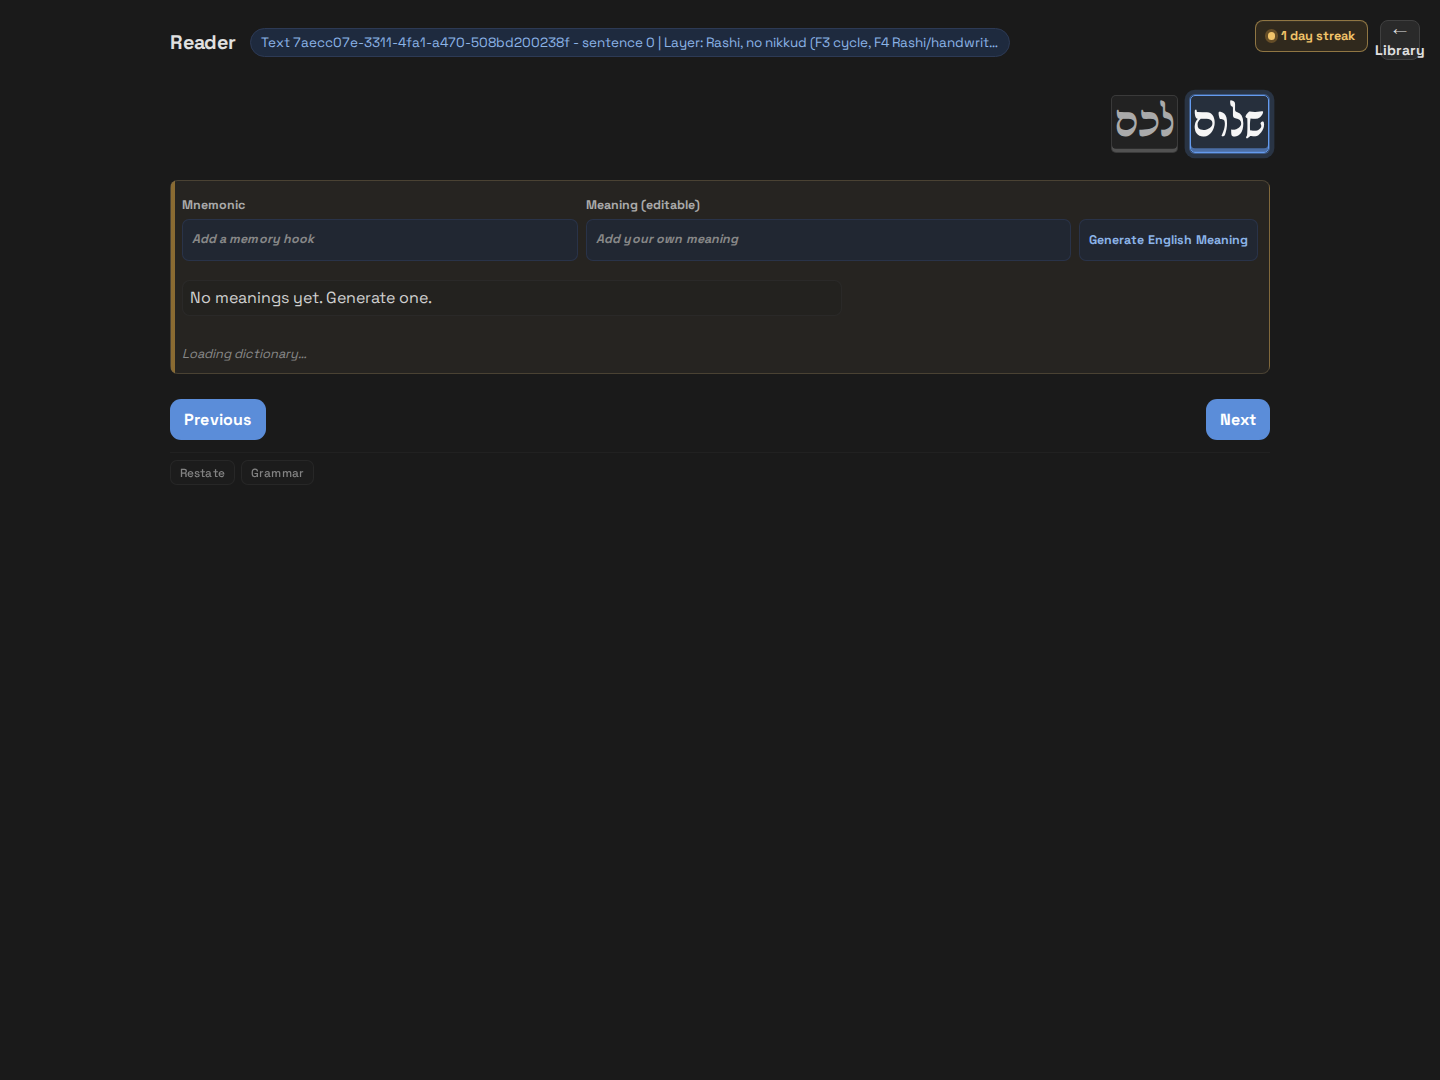
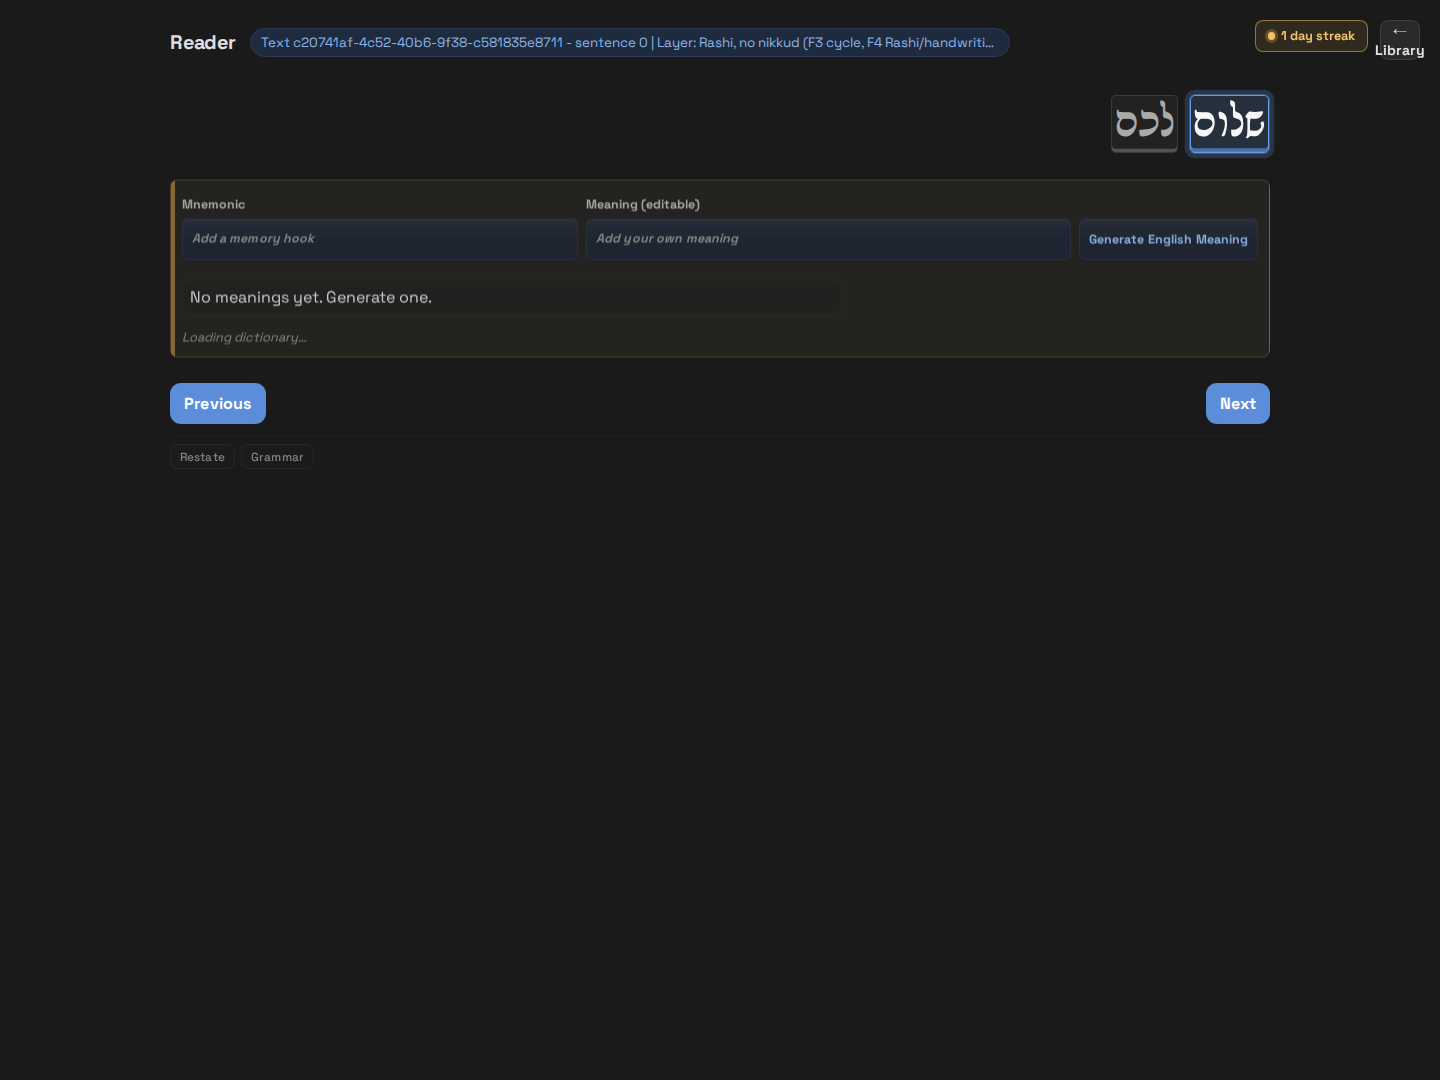
style: Polish inline word-details edit and save feedback
Beads: hreader-ei9
Automated hourly Codex visual redesign worker.
Verification: .venv/bin/python -m pytest -q plus Playwright screenshot capture passed.

diff --git a/app/static/styles.css b/app/static/styles.css
@@ -707,7 +707,6 @@ button.streak-chip:hover {
     background-color var(--motion-duration-base) var(--motion-ease-standard),
     border-color var(--motion-duration-base) var(--motion-ease-standard),
     box-shadow var(--motion-duration-base) var(--motion-ease-standard),
-    color var(--motion-duration-base) var(--motion-ease-standard),
     opacity var(--motion-duration-base) var(--motion-ease-standard),
     transform 120ms var(--motion-ease-standard);
 }
@@ -1325,7 +1324,9 @@ textarea:focus-visible {
   gap: 0.4rem;
   transition:
     background-color var(--motion-duration-base) var(--motion-ease-standard),
-    border-color var(--motion-duration-base) var(--motion-ease-standard);
+    border-color var(--motion-duration-base) var(--motion-ease-standard),
+    box-shadow var(--motion-duration-base) var(--motion-ease-standard);
+  animation: word-details-open var(--motion-duration-moderate) var(--motion-ease-emphasized);
 }
 
 .word-details-panel.status-unknown {
@@ -1346,10 +1347,52 @@ textarea:focus-visible {
   display: none;
 }
 
+.word-details-panel:has(.inline-edit-input:not(.is-hidden)) {
+  border-color: color-mix(in srgb, var(--focus-ring) 58%, var(--border) 42%);
+  box-shadow:
+    0 0 0 1px color-mix(in srgb, var(--focus-ring) 22%, transparent),
+    inset 0 1px 0 rgba(255, 255, 255, 0.03);
+}
+
+.word-details-panel:has(#mnemonic-state.saving),
+.word-details-panel:has(#meanings-state.saving),
+.word-details-panel:has(#meanings-state.generating),
+.word-details-panel:has(#mnemonic-state.loading),
+.word-details-panel:has(#meanings-state.loading) {
+  box-shadow:
+    0 0 0 1px color-mix(in srgb, var(--accent) 24%, transparent),
+    inset 0 1px 0 rgba(255, 255, 255, 0.035);
+}
+
+.word-details-panel:has(#mnemonic-state.saved),
+.word-details-panel:has(#meanings-state.saved) {
+  border-color: color-mix(in srgb, var(--semantic-success) 46%, var(--border) 54%);
+  box-shadow:
+    0 0 0 1px color-mix(in srgb, var(--semantic-success) 22%, transparent),
+    inset 0 1px 0 rgba(255, 255, 255, 0.035);
+}
+
+.word-details-panel:has(#word-details-state.error),
+.word-details-panel:has(#mnemonic-state.error),
+.word-details-panel:has(#meanings-state.error) {
+  border-color: color-mix(in srgb, var(--semantic-danger) 52%, var(--border) 48%);
+  box-shadow:
+    0 0 0 1px color-mix(in srgb, var(--semantic-danger) 24%, transparent),
+    inset 0 1px 0 rgba(255, 255, 255, 0.035);
+}
+
 .word-details-panel #meanings-state,
 .word-details-panel .meaning-preview,
 .word-details-panel #meanings-list {
   width: 100%;
+}
+
+.word-details-panel #word-dict-results {
+  max-height: 56px;
+  margin-top: 0;
+  overflow-y: auto;
+  padding-right: 0.28rem;
+  scrollbar-color: color-mix(in srgb, var(--border-emphasis) 72%, transparent) transparent;
 }
 
 .word-details-panel #word-details-state,
@@ -1357,6 +1400,42 @@ textarea:focus-visible {
 .word-details-panel #meanings-state {
   min-height: 0;
   margin-top: 0;
+}
+
+.word-details-panel #word-details-state:not(:empty),
+.word-details-panel #mnemonic-state:not(:empty),
+.word-details-panel #meanings-state:not(:empty) {
+  width: fit-content;
+  max-width: 100%;
+  border: 1px solid color-mix(in srgb, var(--border) 58%, transparent);
+  border-radius: 999px;
+  background: color-mix(in srgb, var(--surface) 72%, transparent);
+  color: var(--muted-strong);
+  padding: 0.16rem 0.44rem;
+  font-size: 0.72rem;
+  font-weight: 700;
+  line-height: 1.25;
+  box-shadow: inset 0 1px 0 rgba(255, 255, 255, 0.025);
+}
+
+.word-details-panel .state.saving,
+.word-details-panel .state.generating,
+.word-details-panel .state.loading {
+  border-color: color-mix(in srgb, var(--accent) 38%, var(--border) 62%);
+  background: color-mix(in srgb, var(--accent-soft) 54%, var(--surface) 46%);
+  color: var(--accent-muted);
+}
+
+.word-details-panel .state.saved {
+  border-color: color-mix(in srgb, var(--semantic-success) 42%, var(--border) 58%);
+  background: color-mix(in srgb, var(--semantic-success-soft) 70%, var(--surface) 30%);
+  color: color-mix(in srgb, var(--semantic-success) 82%, var(--ink) 18%);
+}
+
+.word-details-panel .state.error {
+  border-color: color-mix(in srgb, var(--semantic-danger) 48%, var(--border) 52%);
+  background: color-mix(in srgb, var(--semantic-danger-soft) 74%, var(--surface) 26%);
+  color: color-mix(in srgb, var(--semantic-danger) 82%, var(--ink) 18%);
 }
 
 .word-details-controls {
@@ -1385,7 +1464,9 @@ textarea:focus-visible {
   width: 100%;
   min-height: 42px;
   border: 1px solid color-mix(in srgb, var(--border) 70%, transparent);
-  background: color-mix(in srgb, var(--bg-input) 70%, var(--surface) 30%);
+  background:
+    linear-gradient(180deg, rgba(255, 255, 255, 0.026), transparent 44%),
+    color-mix(in srgb, var(--bg-input) 70%, var(--surface) 30%);
   color: color-mix(in srgb, var(--ink) 84%, var(--muted) 16%);
   border-radius: 7px;
   padding: 0.42rem 0.48rem;
@@ -1393,7 +1474,15 @@ textarea:focus-visible {
   text-align: left;
   white-space: normal;
   overflow-wrap: anywhere;
-  box-shadow: none;
+  box-shadow:
+    inset 0 1px 0 rgba(255, 255, 255, 0.024),
+    inset 0 -1px 0 rgba(0, 0, 0, 0.18);
+  transition:
+    background-color var(--motion-duration-fast) var(--motion-ease-standard),
+    border-color var(--motion-duration-fast) var(--motion-ease-standard),
+    box-shadow var(--motion-duration-fast) var(--motion-ease-standard),
+    color var(--motion-duration-fast) var(--motion-ease-standard),
+    transform var(--motion-duration-fast) var(--motion-ease-standard);
 }
 
 .inline-edit-display.is-empty {
@@ -1402,14 +1491,22 @@ textarea:focus-visible {
 }
 
 .inline-edit-display:hover,
+.inline-edit-display:focus,
 .inline-edit-display:focus-visible {
   border-color: var(--focus-ring);
   background: color-mix(in srgb, var(--accent-soft) 38%, var(--surface) 62%);
   color: var(--text-primary);
-  transform: none;
+  transform: translateY(-1px);
   filter: none;
   outline: 2px solid var(--focus-ring-soft);
   outline-offset: 2px;
+  box-shadow:
+    0 0 0 3px color-mix(in srgb, var(--focus-ring-soft) 72%, transparent),
+    inset 0 1px 0 rgba(255, 255, 255, 0.04);
+}
+
+.inline-edit-display:active {
+  transform: translateY(0);
 }
 
 .word-details-panel textarea {
@@ -1421,26 +1518,68 @@ textarea:focus-visible {
   padding: 0.42rem 0.48rem;
   border-radius: 7px;
   line-height: 1.35;
+  box-shadow:
+    inset 0 1px 0 rgba(255, 255, 255, 0.024),
+    inset 0 0 0 999px rgba(255, 255, 255, 0.006);
+}
+
+.word-details-panel textarea:focus,
+.word-details-panel textarea:focus-visible {
+  background:
+    linear-gradient(180deg, rgba(255, 255, 255, 0.032), transparent 44%),
+    color-mix(in srgb, var(--bg-input) 84%, var(--accent-soft) 16%);
+  box-shadow:
+    0 0 0 3px color-mix(in srgb, var(--focus-ring-soft) 70%, transparent),
+    inset 0 1px 0 rgba(255, 255, 255, 0.04);
+}
+
+.word-details-panel textarea[data-saving="true"] {
+  border-color: color-mix(in srgb, var(--accent) 54%, var(--border) 46%);
+  background: color-mix(in srgb, var(--accent-soft) 35%, var(--bg-input) 65%);
 }
 
 .word-details-panel button {
   justify-self: start;
   border-color: color-mix(in srgb, var(--border-accent-subtle) 66%, transparent);
-  background: color-mix(in srgb, var(--accent-soft) 52%, var(--surface) 48%);
+  background:
+    linear-gradient(180deg, rgba(255, 255, 255, 0.04), transparent 52%),
+    color-mix(in srgb, var(--accent-soft) 52%, var(--surface) 48%);
   color: var(--accent-muted);
   border-radius: 7px;
   padding: 0.3rem 0.56rem;
   font-size: 0.78rem;
-  box-shadow: none;
+  box-shadow:
+    inset 0 1px 0 rgba(255, 255, 255, 0.035),
+    0 1px 0 rgba(0, 0, 0, 0.14);
   white-space: nowrap;
+  transition:
+    background-color var(--motion-duration-fast) var(--motion-ease-standard),
+    border-color var(--motion-duration-fast) var(--motion-ease-standard),
+    box-shadow var(--motion-duration-fast) var(--motion-ease-standard),
+    color var(--motion-duration-fast) var(--motion-ease-standard),
+    transform var(--motion-duration-fast) var(--motion-ease-standard);
 }
 
 .word-details-panel button:hover {
   border-color: var(--accent);
   background: color-mix(in srgb, var(--accent-soft) 74%, var(--surface) 26%);
   color: var(--text-primary);
-  transform: none;
+  transform: translateY(-1px);
   filter: none;
+}
+
+.word-details-panel button:active {
+  transform: translateY(0);
+  box-shadow: inset 0 1px 2px rgba(0, 0, 0, 0.24);
+}
+
+.word-details-panel button:disabled {
+  cursor: wait;
+  opacity: 0.78;
+  border-color: color-mix(in srgb, var(--accent) 42%, var(--border) 58%);
+  background: color-mix(in srgb, var(--accent-soft) 70%, var(--surface) 30%);
+  color: color-mix(in srgb, var(--accent-muted) 82%, var(--muted) 18%);
+  transform: none;
 }
 
 .word-details-panel .generate-meaning-form {
@@ -1515,6 +1654,18 @@ textarea:focus-visible {
   align-self: center;
   padding: 0.24rem 0.48rem;
   min-height: 32px;
+}
+
+@keyframes word-details-open {
+  from {
+    opacity: 0.88;
+    transform: translateY(-2px);
+  }
+
+  to {
+    opacity: 1;
+    transform: translateY(0);
+  }
 }
 
 #meanings-list li.is-removing {
@@ -2559,12 +2710,17 @@ textarea:focus-visible {
 
   .modal-box,
   .sentence-word.pulse,
+  .word-details-panel,
   .srs-reviewer {
     animation: none;
   }
 
   button:hover,
   .sentence-word:active,
+  .inline-edit-display:hover,
+  .inline-edit-display:focus-visible,
+  .word-details-panel button:hover,
+  .word-details-panel button:active,
   #meanings-list li.is-removing,
   .srs-mnemonic-form button:active {
     transform: none;
@@ -2573,6 +2729,8 @@ textarea:focus-visible {
   .sentence-word,
   .nav-button,
   .range-btn,
+  .word-details-panel,
+  .inline-edit-display,
   input,
   textarea,
   select,

diff --git a/app/static/app.js b/app/static/app.js
@@ -472,10 +472,14 @@ function isCurrentRequest(key, version) {
 
 function setStateMessage(node, text, isError = false) {
   if (!node) return;
+  const normalizedText = text || "";
   node.textContent = text || "";
   node.classList.toggle("error", Boolean(isError));
-  node.classList.toggle("loading", text === "Loading...");
-  node.classList.toggle("empty", text === "Empty");
+  node.classList.toggle("loading", normalizedText === "Loading...");
+  node.classList.toggle("saving", normalizedText === "Saving...");
+  node.classList.toggle("generating", normalizedText === "Generating...");
+  node.classList.toggle("saved", normalizedText === "Saved");
+  node.classList.toggle("empty", normalizedText === "Empty");
 }
 
 function renderListState(listNode, stateNode, options) {
@@ -2306,8 +2310,10 @@ async function saveInlineMeaning() {
     state.readerMeaningValue = nextValue;
     renderInlineEditDisplays();
     stopInlineEdit("meaning");
-    setStateMessage(el.meaningsState, "");
     await loadMeaningsForWord(actionWord);
+    if (!el.meaningsState.classList.contains("error")) {
+      setStateMessage(el.meaningsState, "Saved");
+    }
   } catch (err) {
     if (state.selectedWord !== actionWord) {
       return;
@@ -2767,8 +2773,10 @@ async function updateMeaning(meaningId, editorNode, saveButton) {
     if (state.selectedWord !== actionWord) {
       return;
     }
-    setStateMessage(el.meaningsState, "");
     await loadMeaningsForWord(actionWord);
+    if (!el.meaningsState.classList.contains("error")) {
+      setStateMessage(el.meaningsState, "Saved");
+    }
   } catch (err) {
     if (state.selectedWord !== actionWord) {
       return;
@@ -3191,9 +3199,11 @@ el.generateMeaningForm.onsubmit = async (event) => {
     if (state.selectedWord !== actionWord) {
       return;
     }
-    setStateMessage(el.meaningsState, "");
     el.meaningContext.value = "";
     await loadMeaningsForWord(actionWord);
+    if (!el.meaningsState.classList.contains("error")) {
+      setStateMessage(el.meaningsState, "Saved");
+    }
   } catch (err) {
     if (state.selectedWord !== actionWord) {
       return;